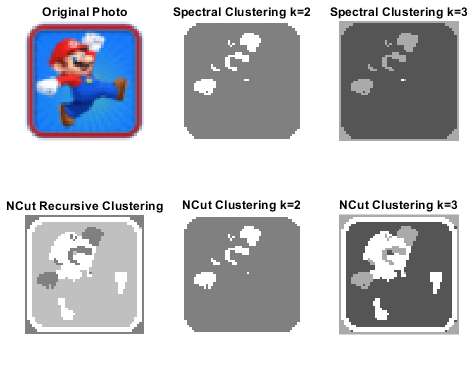
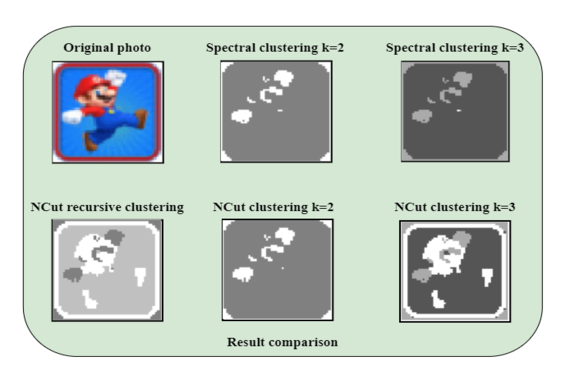
Change featured photo image segm and minor fixes

diff --git a/content/project/image-segmentation/index.md b/content/project/image-segmentation/index.md
@@ -7,7 +7,7 @@ tags:
 date: "2016-04-27T00:00:00Z"
 
 image:
-  caption: "Results, where k: # of segments to be computed"
+  caption: ""
   focal_point: Smart
 
 url_code: "https://github.com/mpalaourg/DIP_Image_Segmentation"
